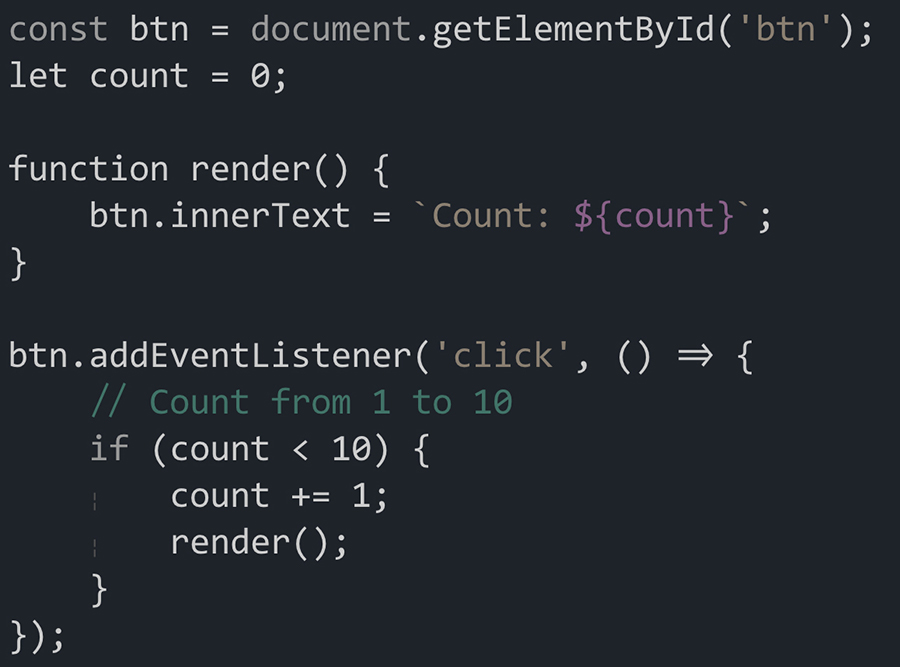
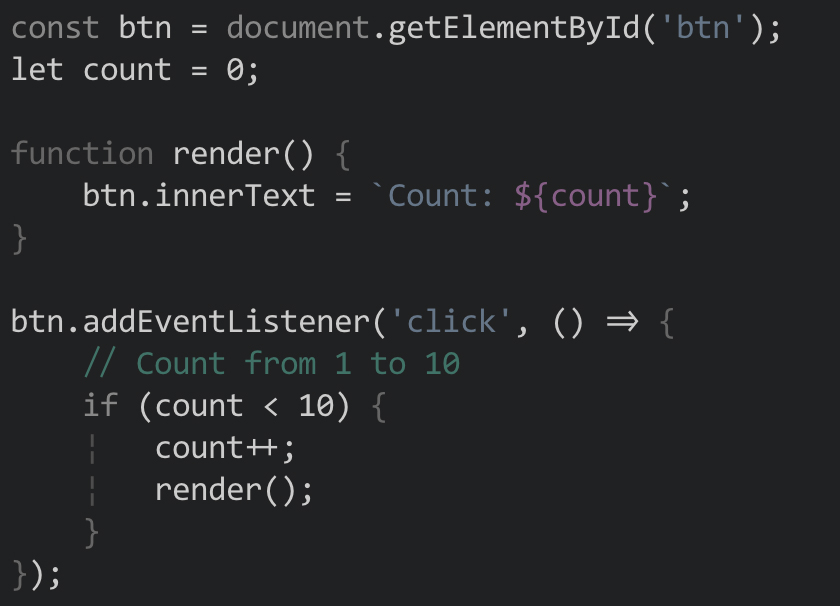
color changes/ updated images/ README.md

diff --git a/README.md b/README.md
@@ -6,13 +6,13 @@ Dark color scheme for vim/ neovim.<br/>
 ## Screenshots
 
 ### JavaScript
-![js](https://user-images.githubusercontent.com/26290165/106217156-7d90fd80-6189-11eb-80be-4a761006e9d3.jpg)
+![js](https://user-images.githubusercontent.com/26290165/108294562-ed702380-714a-11eb-96f7-ed499699a956.jpg)
 
 ### HTML
-![html](https://user-images.githubusercontent.com/26290165/106217271-c1840280-6189-11eb-9806-fc0897f174f6.jpg)
+![html](https://user-images.githubusercontent.com/26290165/108294494-db8e8080-714a-11eb-91bc-637d940aa84b.jpg)
 
 ### CSS
-![css](https://user-images.githubusercontent.com/26290165/106312341-53881b80-621b-11eb-8e7a-1d03a4543860.jpg)
+![css](https://user-images.githubusercontent.com/26290165/108294377-a5510100-714a-11eb-8e22-45a01dc2c434.jpg)
 
 ## Installation
 Use your favorite plugin manager. For example, [vim-plug](https://github.com/junegunn/vim-plug).
